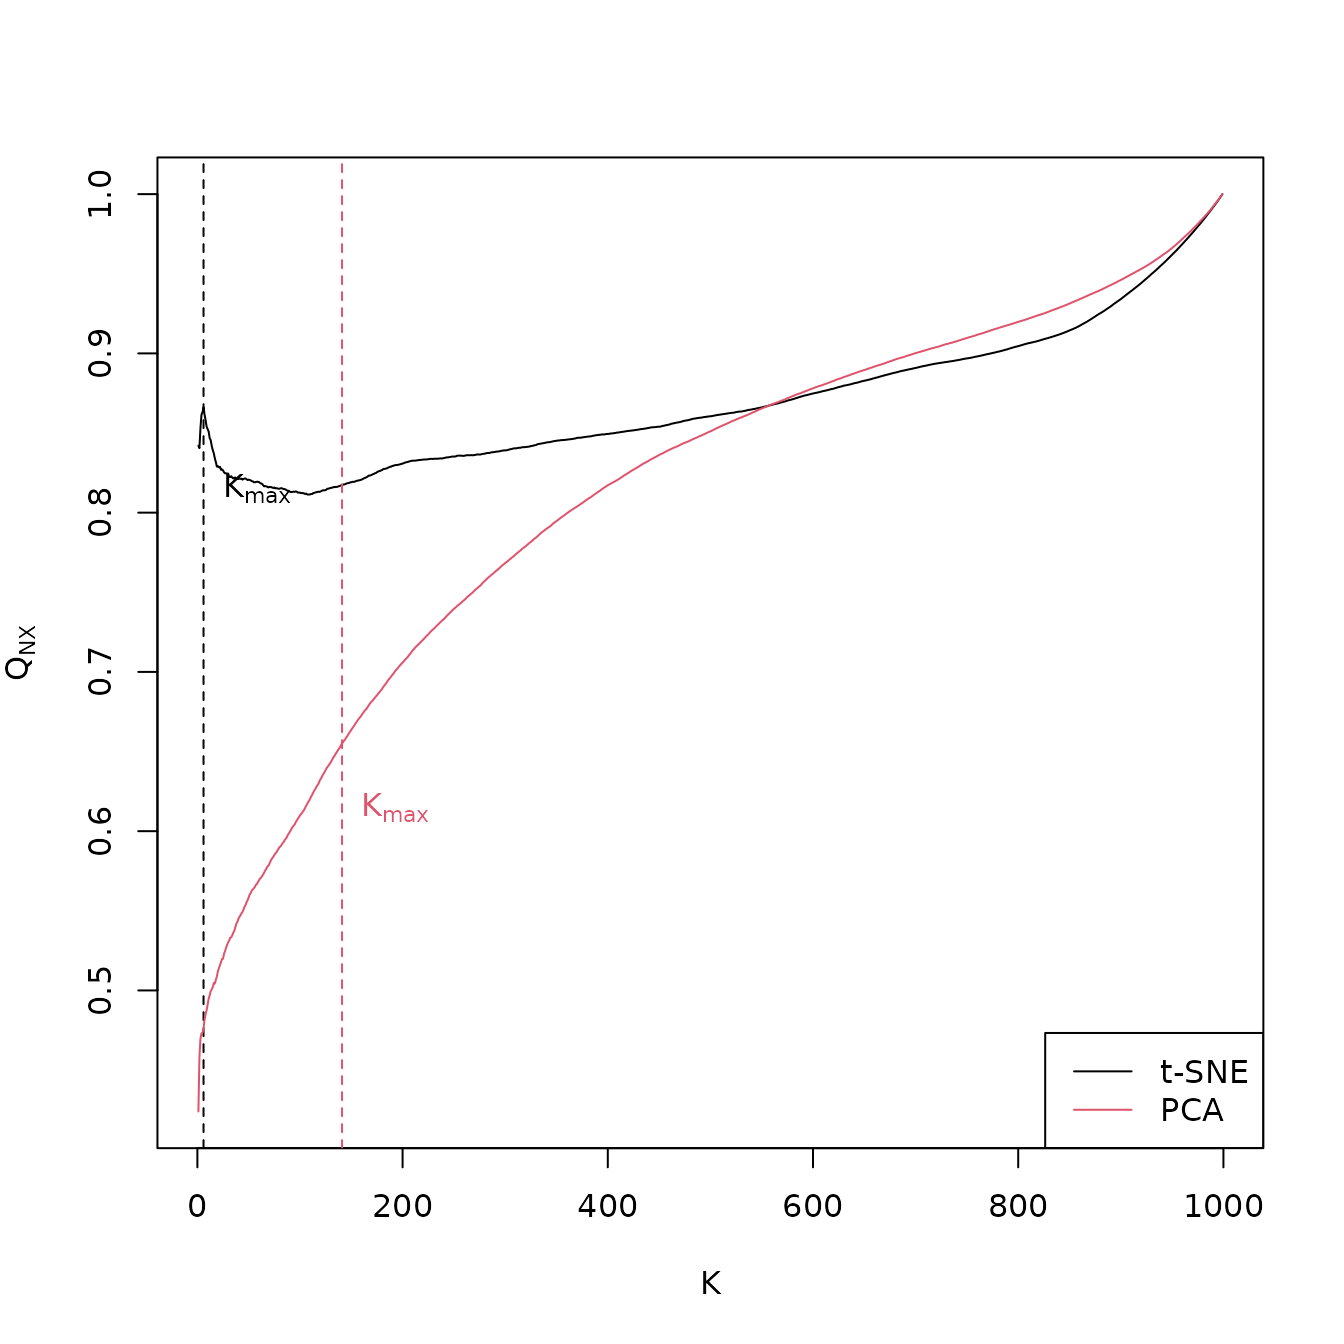
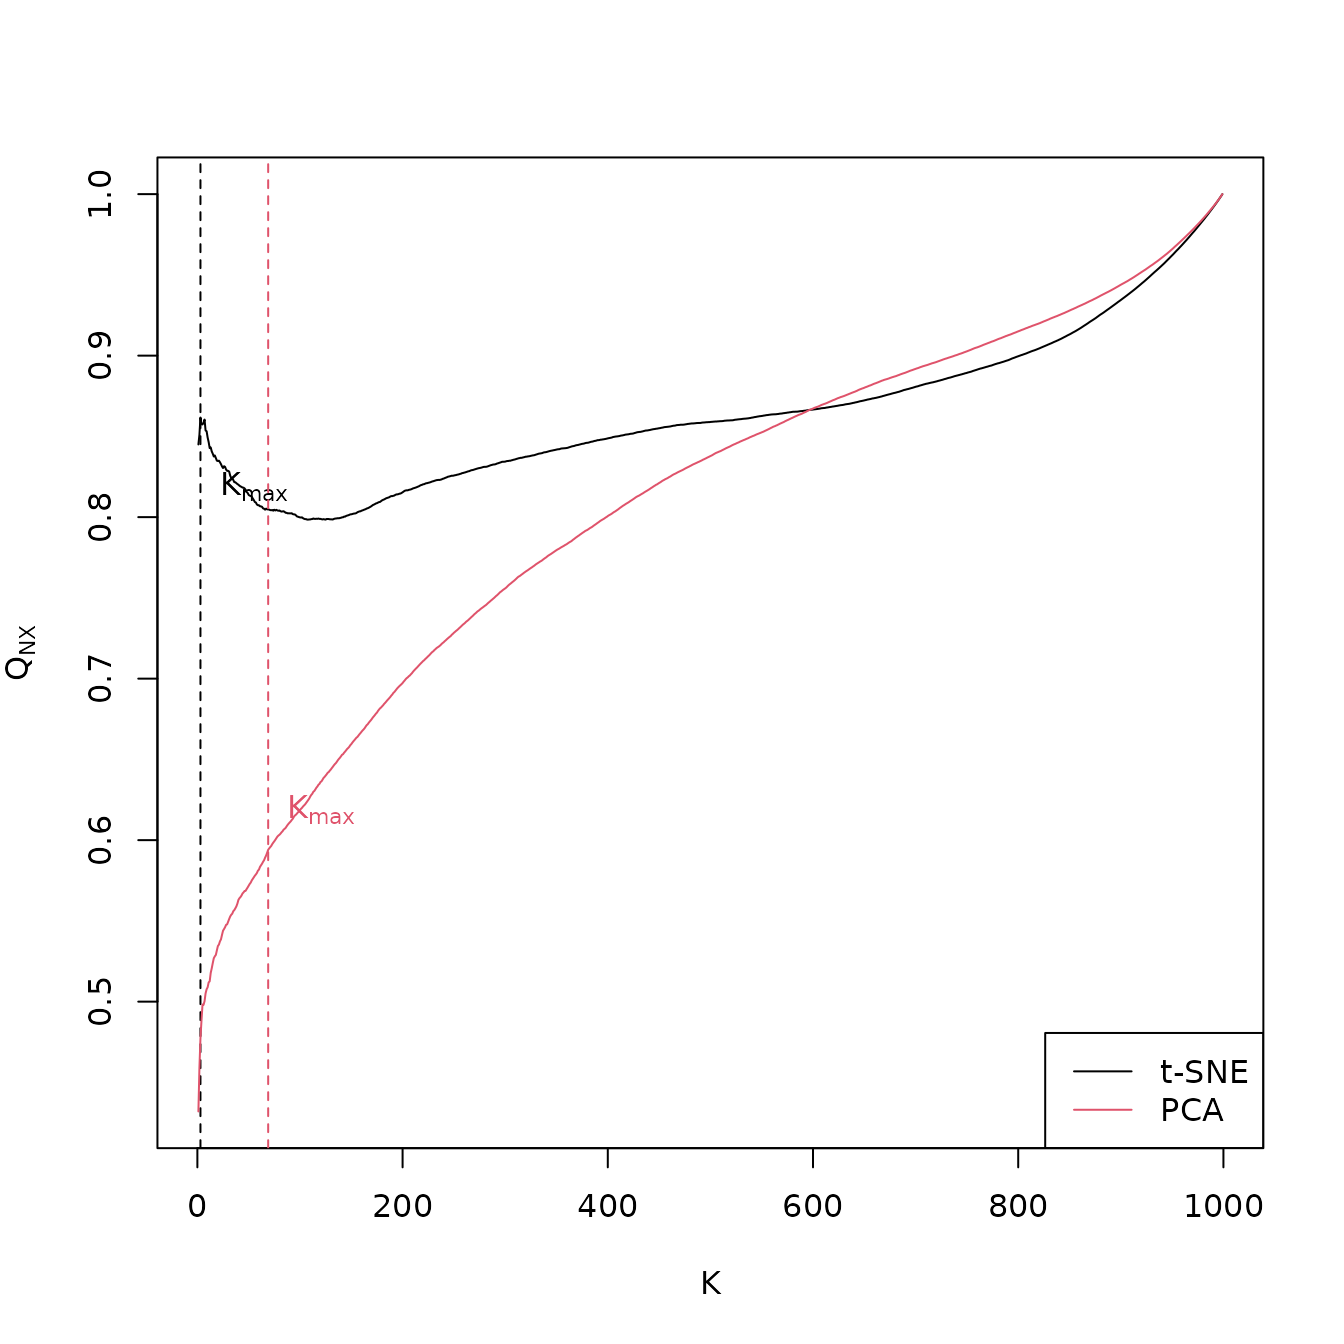
Deploying to gh-pages from @ gdkrmr/coRanking@99553b6a23576b16b5941906cbce4785f5eabe74 🚀

diff --git a/articles/coranking.html b/articles/coranking.html
@@ -162,17 +162,17 @@
 <li>
 <em>t-SNE</em>:
 <ul>
-<li><span class="math inline">\(K_\text{max} = 6\)</span></li>
-<li><span class="math inline">\(Q_\text{local} = 0.8543611\)</span></li>
-<li><span class="math inline">\(Q_\text{global} = 0.8706139\)</span></li>
+<li><span class="math inline">\(K_\text{max} = 3\)</span></li>
+<li><span class="math inline">\(Q_\text{local} = 0.8525556\)</span></li>
+<li><span class="math inline">\(Q_\text{global} = 0.8648299\)</span></li>
 </ul>
 </li>
 <li>
 <em>PCA</em>:
 <ul>
-<li><span class="math inline">\(K_\text{max} = 141\)</span></li>
-<li><span class="math inline">\(Q_\text{local} = 0.5749851\)</span></li>
-<li><span class="math inline">\(Q_\text{global} = 0.8538947\)</span></li>
+<li><span class="math inline">\(K_\text{max} = 69\)</span></li>
+<li><span class="math inline">\(Q_\text{local} = 0.5486229\)</span></li>
+<li><span class="math inline">\(Q_\text{global} = 0.8278221\)</span></li>
 </ul>
 </li>
 </ul>
@@ -186,12 +186,12 @@
 
     <footer><div class="pkgdown-footer-left">
   <p></p>
-<p>Developed by Guido Kraemer.</p>
+<p>Developed by <a href="https://www.guido-kraemer.com" class="external-link">Guido Kraemer</a>.</p>
 </div>
 
 <div class="pkgdown-footer-right">
   <p></p>
-<p>Site built with <a href="https://pkgdown.r-lib.org/" class="external-link">pkgdown</a> 2.0.6.</p>
+<p>NULL <a href="https://www.guido-kraemer.com/terms/" class="external-link">Impressum</a></p>
 </div>
 
     </footer>

diff --git a/authors.html b/authors.html
@@ -50,7 +50,7 @@
       <h2>Authors</h2>
       
       <ul class="list-unstyled"><li>
-          <p><strong>Guido Kraemer</strong>. Maintainer. 
+          <p><strong><a href="https://www.guido-kraemer.com" class="external-link">Guido Kraemer</a></strong>. Author, maintainer. <a href="https://orcid.org/0000-0003-4865-5041" target="orcid.widget" aria-label="ORCID" class="external-link"><span class="fab fa-orcid orcid" aria-hidden="true"></span></a>
           </p>
         </li>
       </ul></div>
@@ -81,11 +81,11 @@ coRanking version 0.2.3.9001, <a href="https://journal.r-project.org/archive/201
 
 
     <footer><div class="pkgdown-footer-left">
-  <p></p><p>Developed by Guido Kraemer.</p>
+  <p></p><p>Developed by <a href="https://www.guido-kraemer.com" class="external-link">Guido Kraemer</a>.</p>
 </div>
 
 <div class="pkgdown-footer-right">
-  <p></p><p>Site built with <a href="https://pkgdown.r-lib.org/" class="external-link">pkgdown</a> 2.0.6.</p>
+  <p></p><p>NULL <a href="https://www.guido-kraemer.com/terms/" class="external-link">Impressum</a></p>
 </div>
 
     </footer></div>

diff --git a/index.html b/index.html
@@ -130,7 +130,8 @@
 <div class="developers">
 <h2 data-toc-skip>Developers</h2>
 <ul class="list-unstyled">
-<li>Guido Kraemer <br><small class="roles"> Maintainer </small>  </li>
+<li>
+<a href="https://www.guido-kraemer.com" class="external-link">Guido Kraemer</a> <br><small class="roles"> Author, maintainer </small> <a href="https://orcid.org/0000-0003-4865-5041" target="orcid.widget" aria-label="ORCID" class="external-link"><span class="fab fa-orcid orcid" aria-hidden="true"></span></a> </li>
 </ul>
 </div>
 
@@ -150,12 +151,12 @@
 
     <footer><div class="pkgdown-footer-left">
   <p></p>
-<p>Developed by Guido Kraemer.</p>
+<p>Developed by <a href="https://www.guido-kraemer.com" class="external-link">Guido Kraemer</a>.</p>
 </div>
 
 <div class="pkgdown-footer-right">
   <p></p>
-<p>Site built with <a href="https://pkgdown.r-lib.org/" class="external-link">pkgdown</a> 2.0.6.</p>
+<p>NULL <a href="https://www.guido-kraemer.com/terms/" class="external-link">Impressum</a></p>
 </div>
 
     </footer>

diff --git a/reference/AUC_ln_K.html b/reference/AUC_ln_K.html
@@ -91,11 +91,11 @@ $$ AUC_{\ln K}(R_{NX}(K)) = \left(\sum_{K=1}^{N-2}R_{NX}(K)/K\right)/\left(\sum_
 
 
     <footer><div class="pkgdown-footer-left">
-  <p></p><p>Developed by Guido Kraemer.</p>
+  <p></p><p>Developed by <a href="https://www.guido-kraemer.com" class="external-link">Guido Kraemer</a>.</p>
 </div>
 
 <div class="pkgdown-footer-right">
-  <p></p><p>Site built with <a href="https://pkgdown.r-lib.org/" class="external-link">pkgdown</a> 2.0.6.</p>
+  <p></p><p>NULL <a href="https://www.guido-kraemer.com/terms/" class="external-link">Impressum</a></p>
 </div>
 
     </footer></div>

diff --git a/reference/R_NX.html b/reference/R_NX.html
@@ -104,11 +104,11 @@ corresponds to a random embedding, a value of 1 to a perfect embedding of the
 
 
     <footer><div class="pkgdown-footer-left">
-  <p></p><p>Developed by Guido Kraemer.</p>
+  <p></p><p>Developed by <a href="https://www.guido-kraemer.com" class="external-link">Guido Kraemer</a>.</p>
 </div>
 
 <div class="pkgdown-footer-right">
-  <p></p><p>Site built with <a href="https://pkgdown.r-lib.org/" class="external-link">pkgdown</a> 2.0.6.</p>
+  <p></p><p>NULL <a href="https://www.guido-kraemer.com/terms/" class="external-link">Impressum</a></p>
 </div>
 
     </footer></div>

diff --git a/reference/LCMC.html b/reference/LCMC.html
@@ -90,11 +90,11 @@ Higher values mean a better performance of the dimensionality reduction.</p>
 
 
     <footer><div class="pkgdown-footer-left">
-  <p></p><p>Developed by Guido Kraemer.</p>
+  <p></p><p>Developed by <a href="https://www.guido-kraemer.com" class="external-link">Guido Kraemer</a>.</p>
 </div>
 
 <div class="pkgdown-footer-right">
-  <p></p><p>Site built with <a href="https://pkgdown.r-lib.org/" class="external-link">pkgdown</a> 2.0.6.</p>
+  <p></p><p>NULL <a href="https://www.guido-kraemer.com/terms/" class="external-link">Impressum</a></p>
 </div>
 
     </footer></div>

diff --git a/reference/coranking.html b/reference/coranking.html
@@ -117,11 +117,11 @@ they can be one of <code>c('data', 'dist', 'rank')</code>.</p>
 
 
     <footer><div class="pkgdown-footer-left">
-  <p></p><p>Developed by Guido Kraemer.</p>
+  <p></p><p>Developed by <a href="https://www.guido-kraemer.com" class="external-link">Guido Kraemer</a>.</p>
 </div>
 
 <div class="pkgdown-footer-right">
-  <p></p><p>Site built with <a href="https://pkgdown.r-lib.org/" class="external-link">pkgdown</a> 2.0.6.</p>
+  <p></p><p>NULL <a href="https://www.guido-kraemer.com/terms/" class="external-link">Impressum</a></p>
 </div>
 
     </footer></div>

diff --git a/LICENSE-text.html b/LICENSE-text.html
@@ -678,11 +678,11 @@ copy of the Program in return for a fee.
 
 
     <footer><div class="pkgdown-footer-left">
-  <p></p><p>Developed by Guido Kraemer.</p>
+  <p></p><p>Developed by <a href="https://www.guido-kraemer.com" class="external-link">Guido Kraemer</a>.</p>
 </div>
 
 <div class="pkgdown-footer-right">
-  <p></p><p>Site built with <a href="https://pkgdown.r-lib.org/" class="external-link">pkgdown</a> 2.0.6.</p>
+  <p></p><p>NULL <a href="https://www.guido-kraemer.com/terms/" class="external-link">Impressum</a></p>
 </div>
 
     </footer></div>

diff --git a/reference/coRanking-package.html b/reference/coRanking-package.html
@@ -94,11 +94,11 @@ Institute for Biogeochemistry, Jena.</p>
 
 
     <footer><div class="pkgdown-footer-left">
-  <p></p><p>Developed by Guido Kraemer.</p>
+  <p></p><p>Developed by <a href="https://www.guido-kraemer.com" class="external-link">Guido Kraemer</a>.</p>
 </div>
 
 <div class="pkgdown-footer-right">
-  <p></p><p>Site built with <a href="https://pkgdown.r-lib.org/" class="external-link">pkgdown</a> 2.0.6.</p>
+  <p></p><p>NULL <a href="https://www.guido-kraemer.com/terms/" class="external-link">Impressum</a></p>
 </div>
 
     </footer></div>

diff --git a/404.html b/404.html
@@ -74,12 +74,12 @@ Content not found. Please use links in the navbar.
 
     <footer><div class="pkgdown-footer-left">
   <p></p>
-<p>Developed by Guido Kraemer.</p>
+<p>Developed by <a href="https://www.guido-kraemer.com" class="external-link">Guido Kraemer</a>.</p>
 </div>
 
 <div class="pkgdown-footer-right">
   <p></p>
-<p>Site built with <a href="https://pkgdown.r-lib.org/" class="external-link">pkgdown</a> 2.0.6.</p>
+<p>NULL <a href="https://www.guido-kraemer.com/terms/" class="external-link">Impressum</a></p>
 </div>
 
     </footer>

diff --git a/reference/Q_NX.html b/reference/Q_NX.html
@@ -92,11 +92,11 @@ or keep their rank.</p>
 
 
     <footer><div class="pkgdown-footer-left">
-  <p></p><p>Developed by Guido Kraemer.</p>
+  <p></p><p>Developed by <a href="https://www.guido-kraemer.com" class="external-link">Guido Kraemer</a>.</p>
 </div>
 
 <div class="pkgdown-footer-right">
-  <p></p><p>Site built with <a href="https://pkgdown.r-lib.org/" class="external-link">pkgdown</a> 2.0.6.</p>
+  <p></p><p>NULL <a href="https://www.guido-kraemer.com/terms/" class="external-link">Impressum</a></p>
 </div>
 
     </footer></div>

diff --git a/reference/rankmatrix.html b/reference/rankmatrix.html
@@ -102,11 +102,11 @@ computation time.</p>
 
 
     <footer><div class="pkgdown-footer-left">
-  <p></p><p>Developed by Guido Kraemer.</p>
+  <p></p><p>Developed by <a href="https://www.guido-kraemer.com" class="external-link">Guido Kraemer</a>.</p>
 </div>
 
 <div class="pkgdown-footer-right">
-  <p></p><p>Site built with <a href="https://pkgdown.r-lib.org/" class="external-link">pkgdown</a> 2.0.6.</p>
+  <p></p><p>NULL <a href="https://www.guido-kraemer.com/terms/" class="external-link">Impressum</a></p>
 </div>
 
     </footer></div>
